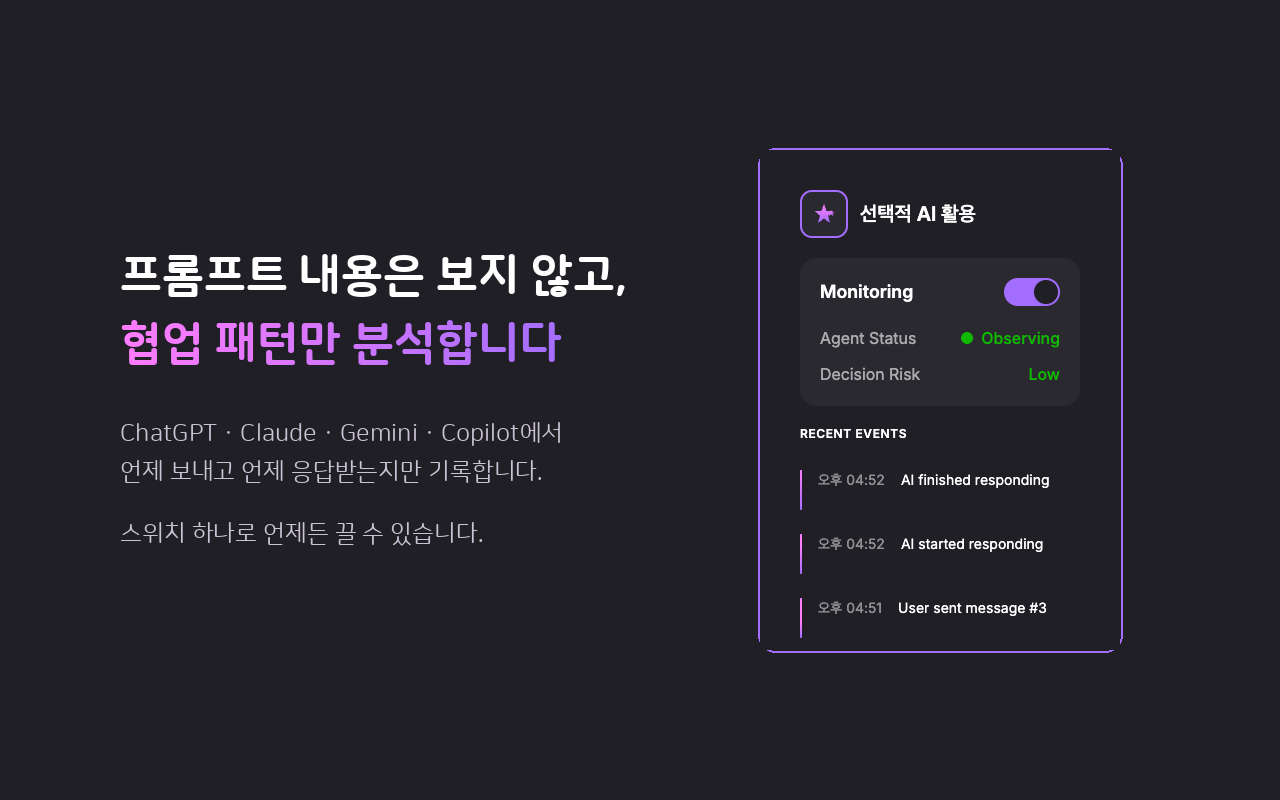
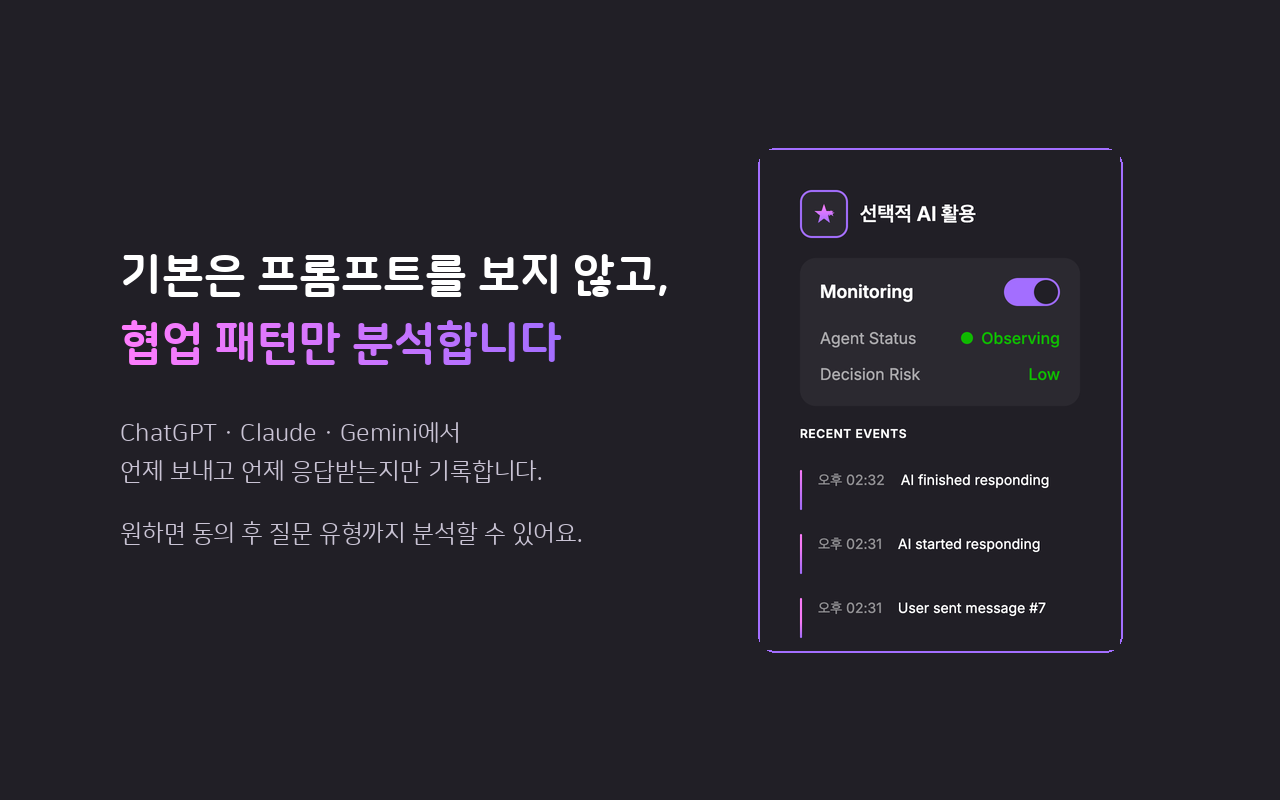
fix: 실제 화면 기준으로 감지 규칙 갱신, Copilot 제외
2026-11-17 실제 ChatGPT·Claude·Gemini 화면에서 확인한 결과:
- ChatGPT: data-message-author-role 이 사라져 아무것도 감지되지 않았음
  → data-user-message-bubble / data-dil-response / data-talvt-turn-state="in_progress"
- Claude: data-testid*="user" 가 수정·복사 버튼까지 잡아 질문 1번이 2번으로 집계됐음
  → user-message / assistant-message / chat-input-stop
- Gemini: 생성 중 표시가 항상 참이라 응답 끝을 못 잡고, 질문도 2번으로 집계됐음
  → user-query / model-response / .send-button 안 mat-icon[fonticon="stop"]
  Enter만 눌러도 전송으로 세던 Gemini 우회 코드 제거
- 언어에 따라 바뀌는 aria-label 에는 기대지 않음

세 사이트 모두 질문 1번 → 응답 시작 → 응답 끝이 정확히 한 번씩 잡히고, 질문 텍스트도 정확히 읽힘.

Copilot은 copilot.microsoft.com 이 copilot.com 으로 이전하며 로그인이 필요해져
화면을 확인할 수 없어 첫 출시에서 제외 (매니페스트, 소개 페이지, 문서, 스토어 스크린샷).

diff --git a/src/content.ts b/src/content.ts
@@ -14,7 +14,6 @@ function detectPlatform(): PlatformType | null {
   if (host.includes('chatgpt.com')) return 'chat.openai.com'
   if (host.includes('claude.ai')) return 'claude.ai'
   if (host.includes('gemini.google.com')) return 'gemini.google.com'
-  if (host.includes('copilot.microsoft.com')) return 'copilot.microsoft.com'
   return null
 }
 
@@ -238,38 +237,35 @@ let lastAiResponseEndTime = 0
 const AI_EVENT_DEBOUNCE = 2000
 
 // 플랫폼별 셀렉터 정의
+// 2026-11-17 실제 화면에서 확인한 규칙. 사이트 구조가 바뀌면 여기를 고친다.
+// 언어에 따라 바뀌는 aria-label(예: "중지", "Stop")에는 기대지 않는다.
+// 질문 한 개당 정확히 한 요소만 걸리도록 넓은 패턴(class*="user" 등)은 쓰지 않는다.
 const SELECTORS: Record<PlatformType, {
   userMessage: string
   assistantMessage: string
   streamingIndicator: string
 }> = {
   'chat.openai.com': {
-    userMessage: '[data-message-author-role="user"]',
-    assistantMessage: '[data-message-author-role="assistant"]',
-    streamingIndicator: 'button[aria-label="Stop generating"], button[data-testid="stop-button"], .result-streaming, [data-is-streaming="true"]'
+    userMessage: '[data-user-message-bubble="true"], [data-message-author-role="user"]',
+    assistantMessage: '[data-dil-response], [data-message-author-role="assistant"]',
+    streamingIndicator: '[data-talvt-turn-state="in_progress"], button[data-testid="stop-button"]'
   },
   'claude.ai': {
-    userMessage: '[data-testid*="human"], [data-testid*="user"], .human-turn, .user-message, div[class*="human"], div[class*="user-turn"], [data-is-user-message="true"]',
-    assistantMessage: '[data-testid*="assistant"], [data-testid*="claude"], .assistant-turn, .claude-message, div[class*="assistant"], div[class*="claude-turn"], [data-is-assistant-message="true"], [data-testid="message-content"]',
-    streamingIndicator: '[data-is-streaming="true"]'
+    userMessage: '[data-testid="user-message"]',
+    assistantMessage: '[data-testid="assistant-message"]',
+    streamingIndicator: '[data-is-streaming="true"], [data-testid="chat-input-stop"]'
   },
   'gemini.google.com': {
-    userMessage: '[data-turn-role="user"], .user-query, user-query, [class*="query-content"], [class*="user-message"], [class*="human-turn"], message-content[data-message-author-role="user"]',
-    assistantMessage: '[data-turn-role="model"], .model-response, model-response, [class*="response-content"], [class*="model-message"], [class*="assistant-turn"], message-content[data-message-author-role="model"]',
-    streamingIndicator: '[data-loading="true"], .loading-indicator, .thinking-indicator, [aria-busy="true"], .streaming, [class*="loading"], [class*="thinking"], .response-streaming, loading-indicator'
+    userMessage: 'user-query',
+    assistantMessage: 'model-response',
+    streamingIndicator: '.send-button mat-icon[fonticon="stop"], .send-button mat-icon[data-mat-icon-name="stop"]'
   },
-  'copilot.microsoft.com': {
-    userMessage: '[data-content="user-message"], .user-message, [class*="UserMessage"], cib-message-group[source="user"]',
-    assistantMessage: '[data-content="ai-message"], .ai-message, [class*="BotMessage"], cib-message-group[source="bot"]',
-    streamingIndicator: '[data-is-streaming="true"], .typing-indicator, [class*="typing"], cib-typing-indicator, [aria-busy="true"]'
-  }
 }
 
 const INIT_DELAY: Record<PlatformType, number> = {
   'chat.openai.com': 3000,
   'claude.ai': 2000,
   'gemini.google.com': 2000,
-  'copilot.microsoft.com': 3000
 }
 
 const selectors = platform ? SELECTORS[platform] : null
@@ -336,11 +332,6 @@ function setupMessageDetection() {
           if (newCount > lastUserMessageCount) {
             triggerUserMessage()
             lastUserMessageCount = newCount
-          } else {
-            if (platform === 'gemini.google.com') {
-              console.log('[HANDOFF] Gemini: Enter detected, treating as message submit')
-              triggerUserMessage()
-            }
           }
         }, 1000)
       }
@@ -357,9 +348,6 @@ function setupMessageDetection() {
         if (newCount > lastUserMessageCount) {
           triggerUserMessage()
           lastUserMessageCount = newCount
-        } else if (platform === 'gemini.google.com') {
-          console.log('[HANDOFF] Gemini: Send button clicked, treating as message submit')
-          triggerUserMessage()
         }
       }, 1000)
     }

diff --git a/public/privacy.html b/public/privacy.html
@@ -57,7 +57,7 @@
     <table>
       <tr><th>항목</th><th>내용</th></tr>
       <tr><td>상호작용 이벤트</td><td>이벤트 종류(프롬프트 전송, AI 응답 시작·종료, 페이지 진입·이탈)와 발생 시각</td></tr>
-      <tr><td>사용한 AI 서비스</td><td>ChatGPT, Claude, Gemini, Copilot 중 어느 사이트에서 발생했는지</td></tr>
+      <tr><td>사용한 AI 서비스</td><td>ChatGPT, Claude, Gemini 중 어느 사이트에서 발생했는지</td></tr>
       <tr><td>분석 결과</td><td>위 정보로 브라우저 안에서 계산한 협업 스타일과 지표 (최근 20개 세션까지)</td></tr>
       <tr><td>상세 분석 결과 (켠 경우만)</td><td>질문별 요청 유형(실행·의견·검증·수정·정보·기타)과 글자 수, AI 답변의 글자 수. 텍스트는 포함되지 않습니다.</td></tr>
       <tr><td>설정</td><td>수집 켜기/끄기, 언어, 상세 분석 동의 시각과 범위</td></tr>
@@ -77,7 +77,7 @@
     <ul>
       <li>프롬프트 및 AI 응답의 텍스트, 첨부 파일 (상세 분석을 켠 경우에도 텍스트는 저장·전송하지 않습니다)</li>
       <li>이름, 이메일, AI 서비스의 계정 정보, 쿠키, 비밀번호</li>
-      <li>위 4개 사이트 외의 방문 기록. 확장 프로그램은 <code>chatgpt.com</code>, <code>claude.ai</code>, <code>gemini.google.com</code>, <code>copilot.microsoft.com</code>에서만 동작합니다.</li>
+      <li>위 3개 사이트 외의 방문 기록. 확장 프로그램은 <code>chatgpt.com</code>, <code>claude.ai</code>, <code>gemini.google.com</code>에서만 동작합니다.</li>
       <li>설문 응답 내용. 설문은 브라우저 안에서만 계산됩니다.</li>
       <li>사용자나 기기를 식별하는 ID. 만들지도, 전송하지도 않습니다.</li>
     </ul>
@@ -153,7 +153,7 @@
     <table>
       <tr><th>Item</th><th>Details</th></tr>
       <tr><td>Interaction events</td><td>Event type (prompt submitted, AI response started or ended, page opened or closed) and its timestamp</td></tr>
-      <tr><td>AI service used</td><td>Which of ChatGPT, Claude, Gemini or Copilot the event occurred on</td></tr>
+      <tr><td>AI service used</td><td>Which of ChatGPT, Claude or Gemini the event occurred on</td></tr>
       <tr><td>Analysis results</td><td>The collaboration style and metrics calculated in your browser from the items above (up to the 20 most recent sessions)</td></tr>
       <tr><td>Detailed analysis results (only if turned on)</td><td>The request type of each prompt (do / opinion / check / revise / info / other), its length, and the length of AI answers. No text is included.</td></tr>
       <tr><td>Settings</td><td>Monitoring on/off, language, and the time and scope of your detailed-analysis consent</td></tr>
@@ -173,7 +173,7 @@
     <ul>
       <li>The text or attachments of your prompts and AI responses (even with detailed analysis on, text is never stored or sent)</li>
       <li>Your name, email, or account information, cookies or passwords for any AI service</li>
-      <li>Browsing history outside the four supported sites. The extension runs only on <code>chatgpt.com</code>, <code>claude.ai</code>, <code>gemini.google.com</code> and <code>copilot.microsoft.com</code>.</li>
+      <li>Browsing history outside the three supported sites. The extension runs only on <code>chatgpt.com</code>, <code>claude.ai</code> and <code>gemini.google.com</code>.</li>
       <li>Your survey answers. The survey is scored entirely in your browser.</li>
       <li>Any ID that identifies you or your device. None is created or transmitted.</li>
     </ul>

diff --git a/src/pages/HomePage.tsx b/src/pages/HomePage.tsx
@@ -59,7 +59,7 @@ const COPY = {
     steps: [
       {
         title: "평소처럼 AI 사용",
-        body: "ChatGPT, Claude, Gemini, Copilot에서 하던 대로 대화하세요. 따로 누를 것도, '분석 중'이라는 느낌도 없습니다.",
+        body: "ChatGPT, Claude, Gemini에서 하던 대로 대화하세요. 따로 누를 것도, '분석 중'이라는 느낌도 없습니다.",
       },
       {
         title: "행동만 기록",
@@ -78,7 +78,7 @@ const COPY = {
     resultItems: [
       { title: "스타일 카드", body: "오늘의 협업 스타일과 강점, 주의할 점, 한 줄 팁" },
       { title: "데이터 요약", body: "AI 사용 빈도, 질문 간 평균 간격, 수정·재질문 비율, 결정 구간 빈도" },
-      { title: "도구별 사용 비율", body: "ChatGPT·Claude·Gemini·Copilot 중 어디서 얼마나 썼는지" },
+      { title: "도구별 사용 비율", body: "ChatGPT·Claude·Gemini 중 어디서 얼마나 썼는지" },
       { title: "분석 리포트", body: "패턴 분석과 단계별 분석 흐름, AI가 정리한 인사이트" },
     ],
     notEyebrow: "HANDOFF is NOT an AI evaluation tool",
@@ -134,7 +134,7 @@ const COPY = {
     steps: [
       {
         title: "Use AI as usual",
-        body: "Chat on ChatGPT, Claude, Gemini or Copilot as you always do. Nothing to click, nothing that feels like being analyzed.",
+        body: "Chat on ChatGPT, Claude or Gemini as you always do. Nothing to click, nothing that feels like being analyzed.",
       },
       {
         title: "Only behavior is recorded",
@@ -153,7 +153,7 @@ const COPY = {
     resultItems: [
       { title: "Style card", body: "Today's collaboration style, strengths, cautions and a one-line tip" },
       { title: "Data summary", body: "Usage frequency, average prompt interval, refinement rate and decision frequency" },
-      { title: "Usage by tool", body: "How much you used ChatGPT, Claude, Gemini and Copilot" },
+      { title: "Usage by tool", body: "How much you used ChatGPT, Claude and Gemini" },
       { title: "Analysis report", body: "Pattern analysis, the step-by-step analysis flow and AI-written insights" },
     ],
     notEyebrow: "HANDOFF is NOT an AI evaluation tool",
@@ -181,7 +181,7 @@ const COPY = {
   },
 };
 
-const SITES = ["ChatGPT", "Claude", "Gemini", "Copilot"];
+const SITES = ["ChatGPT", "Claude", "Gemini"];
 
 /**
  * 같은 페이지 안 섹션으로 이동.

diff --git a/src/types/agent.ts b/src/types/agent.ts
@@ -7,7 +7,7 @@ export type EventType =
   | 'AI_RESPONSE_START'
   | 'AI_RESPONSE_END'
 
-export type PlatformType = 'chat.openai.com' | 'claude.ai' | 'gemini.google.com' | 'copilot.microsoft.com'
+export type PlatformType = 'chat.openai.com' | 'claude.ai' | 'gemini.google.com'
 
 /** 상세 분석이 켜져 있을 때만 붙는 정보. 텍스트는 들어가지 않는다. */
 export interface EventDetail {

diff --git a/src/pages/LandingPage.tsx b/src/pages/LandingPage.tsx
@@ -13,7 +13,6 @@ const AI_SITES = [
   { name: "ChatGPT", url: "https://chat.openai.com", color: "#10A37F" },
   { name: "Claude", url: "https://claude.ai", color: "#D97706" },
   { name: "Gemini", url: "https://gemini.google.com", color: "#4285F4" },
-  { name: "Copilot", url: "https://copilot.microsoft.com", color: "#9333EA" },
 ];
 
 

diff --git a/src/components/InstallModal.tsx b/src/components/InstallModal.tsx
@@ -5,7 +5,6 @@ const AI_SITES = [
   { name: "ChatGPT", url: "https://chat.openai.com", color: "#10A37F" },
   { name: "Claude", url: "https://claude.ai", color: "#D97706" },
   { name: "Gemini", url: "https://gemini.google.com", color: "#4285F4" },
-  { name: "Copilot", url: "https://copilot.microsoft.com", color: "#9333EA" },
 ];
 
 

diff --git a/store/STORE_LISTING.md b/store/STORE_LISTING.md
@@ -12,7 +12,8 @@
 - [ ] 재배포 후 확장 프로그램에서 분석을 실행하면 리포트의 "LLM 상세 분석"에 LLM이 쓴 문장이 나온다 (함수가 실패하면 규칙 기반 문장이 대신 나오므로, 문장이 매번 같다면 함수 로그를 확인)
 - [x] `public/privacy.html` 의 문의 메일을 넣었다 (haeun9634@naver.com)
 - [ ] `npm run zip` 으로 `handoff-extension.zip` 을 만들었다
-- [ ] ChatGPT · Claude · Gemini · Copilot 각각에서 프롬프트 1회 전송 시 팝업 RECENT EVENTS에 3줄(전송/응답 시작/응답 종료)이 찍히는지 직접 확인했다 (`src/content.ts` 의 `SELECTORS`)
+- [x] ChatGPT · Claude · Gemini 실제 화면에서 감지 규칙 확인 (2026-11-17, `src/content.ts` 의 `SELECTORS`). Copilot은 copilot.com으로 이전하며 로그인이 필요해져 첫 출시에서 제외
+- [ ] 확장 프로그램을 개발자 모드로 올려 세 사이트에서 팝업 RECENT EVENTS에 3줄(전송/응답 시작/응답 종료)이 찍히는지 최종 확인
 - [ ] 개발자 계정 등록(1회 $5), 2단계 인증, 문의 이메일 인증
 
 ## 1. 스토어 등록정보
@@ -36,14 +37,14 @@
 
 English (매니페스트 `description` 과 동일):
 
-> See how you collaborate with AI on ChatGPT, Claude, Gemini and Copilot. Timing-based; reads prompts only if you opt in.
+> See how you collaborate with AI on ChatGPT, Claude and Gemini. Timing-based; reads prompts only if you opt in.
 
 ### 상세 설명 — 한국어
 
 ```
 당신은 AI와 어떻게 협업하고 있나요?
 
-HANDOFF는 ChatGPT, Claude, Gemini, Copilot을 쓰는 방식을 분석해 나의 AI 협업 스타일을 알려 주는 확장 프로그램입니다.
+HANDOFF는 ChatGPT, Claude, Gemini를 쓰는 방식을 분석해 나의 AI 협업 스타일을 알려 주는 확장 프로그램입니다.
 
 ■ 이렇게 동작합니다
 1. 평소처럼 AI와 대화합니다.
@@ -72,7 +73,7 @@ HANDOFF는 ChatGPT, Claude, Gemini, Copilot을 쓰는 방식을 분석해 나의
 · 기본 분석은 프롬프트와 AI 응답의 내용을 읽지 않습니다. 시점과 이벤트 종류만 사용합니다.
 · 기록은 브라우저 안에만 저장됩니다. 사용자 기록을 보관하는 서버가 없습니다.
 · 로그인이 없고 이름·이메일·계정 정보를 수집하지 않습니다.
-· 지원하는 4개 사이트에서만 동작합니다.
+· 지원하는 3개 사이트에서만 동작합니다.
 · 팝업의 Monitoring 스위치로 언제든 끌 수 있습니다.
 
 한국어와 영어를 지원합니다.
@@ -83,7 +84,7 @@ HANDOFF는 ChatGPT, Claude, Gemini, Copilot을 쓰는 방식을 분석해 나의
 ```
 How do you collaborate with AI?
 
-HANDOFF analyzes the way you work with ChatGPT, Claude, Gemini and Copilot and shows you your AI collaboration style.
+HANDOFF analyzes the way you work with ChatGPT, Claude and Gemini and shows you your AI collaboration style.
 
 ■ How it works
 1. Chat with AI as you normally do.
@@ -112,7 +113,7 @@ While it's on, an indicator shows at the bottom right of the AI site, where you 
 · By default, the content of your prompts and AI responses is never read. Only timing and event type are used.
 · Your records stay in your browser. There is no server keeping user records.
 · No sign-in. No name, email or account information is collected.
-· Runs only on the four supported sites.
+· Runs only on the three supported sites.
 · Turn it off at any time with the Monitoring switch in the popup.
 
 Available in Korean and English.
@@ -123,7 +124,7 @@ Available in Korean and English.
 ### 단일 목적 (Single purpose)
 
 ```
-HANDOFF has a single purpose: to analyze the timing pattern of the user's interactions with AI chat services (ChatGPT, Claude, Gemini, Microsoft Copilot) and show the user their AI collaboration style.
+HANDOFF has a single purpose: to analyze the timing pattern of the user's interactions with AI chat services (ChatGPT, Claude, Gemini) and show the user their AI collaboration style.
 ```
 
 ### 권한 사용 이유
@@ -140,10 +141,10 @@ All user data is stored locally with this permission; there is no backend databa
 Used for a single one-minute idle timer. When the user has stopped prompting for one minute, the service worker saves a summary of the accumulated interactions to local storage. An alarm is required because setTimeout does not survive Manifest V3 service worker termination.
 ```
 
-**호스트 권한 (content script: chatgpt.com, claude.ai, gemini.google.com, copilot.microsoft.com)**
+**호스트 권한 (content script: chatgpt.com, claude.ai, gemini.google.com)**
 
 ```
-The content script runs only on these four AI chat sites. By default it observes DOM changes to detect three moments: when the user submits a prompt, when the AI response starts, and when it ends, and records only the event type and timestamp.
+The content script runs only on these three AI chat sites. By default it observes DOM changes to detect three moments: when the user submits a prompt, when the AI response starts, and when it ends, and records only the event type and timestamp.
 
 Optional "Detailed analysis": only after the user opens a consent screen in the popup, reads what is accessed, checks an explicit consent box and chooses a scope (this conversation only, 30 minutes, 1 hour or today), the content script reads the text of prompts the user sends within that scope and classifies each one into a request type (do / opinion / check / revise / info) inside the browser. The text is discarded immediately after classification and is never stored or transmitted; only the type label and character counts are kept locally. A visible indicator is shown on the page while it is active and lets the user turn it off. The scope expires automatically.
 
@@ -188,7 +189,7 @@ https://handofff.vercel.app/privacy.html
 ```
 No account is required.
 
-1. Install the extension and open https://chatgpt.com (or claude.ai, gemini.google.com, copilot.microsoft.com) and sign in with any account of your own.
+1. Install the extension and open https://chatgpt.com (or claude.ai, gemini.google.com) and sign in with any account of your own.
 2. Send two or three prompts.
 3. Click the HANDOFF toolbar icon. The popup shows "Observing" and the recent events (prompt submitted / AI response started / finished). Only event type and time are recorded, never message text.
 4. Click "Open Full Dashboard", then "View Collaboration Style" to see the analysis result.
@@ -196,7 +197,7 @@ No account is required.
 
 The Monitoring switch in the popup stops all collection.
 
-To test the optional Detailed analysis: open the popup while a ChatGPT/Claude/Gemini/Copilot chat is the active tab, click "Turn on", read the consent screen, check the consent box, choose a scope and click "Agree and start". An indicator appears at the bottom right of the chat page. Send a few prompts, then open the report: a "Request Types" section shows the classification. Prompt text is never stored (you can inspect chrome.storage to confirm) and can be turned off from the indicator or the popup.
+To test the optional Detailed analysis: open the popup while a ChatGPT/Claude/Gemini chat is the active tab, click "Turn on", read the consent screen, check the consent box, choose a scope and click "Agree and start". An indicator appears at the bottom right of the chat page. Send a few prompts, then open the report: a "Request Types" section shows the classification. Prompt text is never stored (you can inspect chrome.storage to confirm) and can be turned off from the indicator or the popup.
 ```
 
 ## 5. 등록 후 할 일
